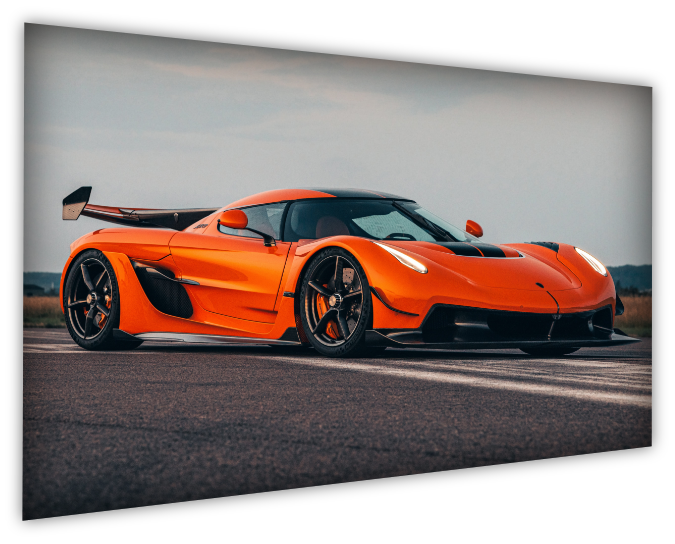
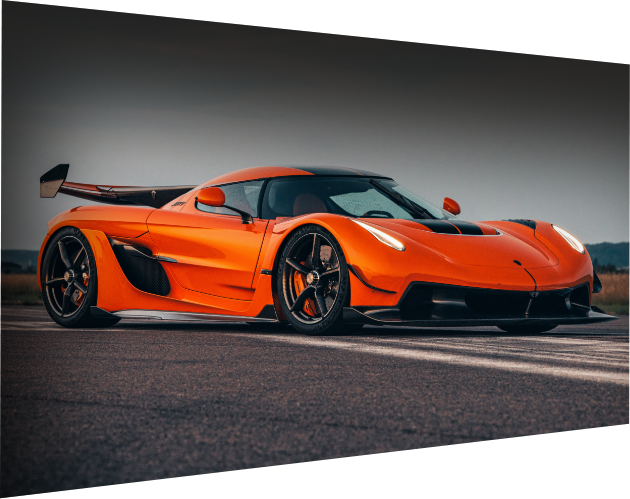
making text and picture correct on car listing details

diff --git a/src/components/CarsListingDetails.vue b/src/components/CarsListingDetails.vue
@@ -19,7 +19,7 @@
             <div class="swiper-pagination"></div>
           </div>
         </div>
-        <div class="col-md-7 position-relative">
+        <div class="col-md-7 position-relative text-wall-effect">
           <router-link to="/cardetails"> <button class="btn btn-link"> <i
                 class="fa-solid fa-arrow-up-right-from-square"></i></button></router-link>
           <div class="container h-100">
@@ -830,5 +830,17 @@ export default {
     height: 200px;
     overflow: auto;
   }
+}
+
+.text-wall-effect {
+  transform: rotateY(-25deg);
+  transform-origin: left center;
+  background: rgba(255, 255, 255, 0.02);
+  padding: 20px 40px;
+  border-radius: 10px;
+  transform-origin: left center;
+  /* backdrop-filter: blur(3px); */
+  /* Optional for glass effect */
+  transition: all 0.3s ease;
 }
 </style>

diff --git a/src/App.vue b/src/App.vue
@@ -88,7 +88,7 @@
     <vue-particles color="#dedede" particleOpacity="1" :particlesNumber="pNum" shapeType="circle" particleSize="4"
       linesColor="#dedede" linesWidth="1" lineLinked="true" moveSpeed="3" hoverEffect="true" hoverMode="grab"
       clickEffect="true" clickMode="push"
-      v-if="$route.path !== '/termofservice' && $route.path !== '/privacypolicy' && $route.path !== '/cookies' && $route.path !== '/map' && $route.path !== '/map2' && $route.path !== '/map3' && $route.path !== '/newstories'" />
+      v-if="$route.path !== '/termofservice' && $route.path !== '/privacypolicy' && $route.path !== '/cookies' && $route.path !== '/map' && $route.path !== '/map2' && $route.path !== '/map3' && $route.path !== '/newstories' && $route.path !== '/carslistingdetails'" />
 
   </div>
   <div class="min-h-80vh ">

diff --git a/src/assets/css/carListing7.css b/src/assets/css/carListing7.css
@@ -14,9 +14,12 @@
 }
 
 .slider-img.car-image-slider2 {
-	max-width: 475px;
+	/* max-width: 475px; */
+	position: relative;
+	right: 15px;
+	max-width: 447px;
 	height: 499px;
-	box-shadow: inset 0 0 50px rgba(0, 0, 0, 0.1), 0 0 15px rgba(0, 0, 0, 0.1);
+	/* box-shadow: inset 0 0 50px rgba(0, 0, 0, 0.1), 0 0 15px rgba(0, 0, 0, 0.1); */
 	border: none;
 	border-radius: 0;
 	object-fit: contain;
@@ -181,8 +184,8 @@
 	align-items: flex-start;
 	width: 100%;
 	gap: 1rem;
-	transform: skewY(2deg);
-	transform-origin: bottom;
+	/* transform: skewY(2deg);
+	transform-origin: bottom; */
 }
 
 .first-content-car-details {
